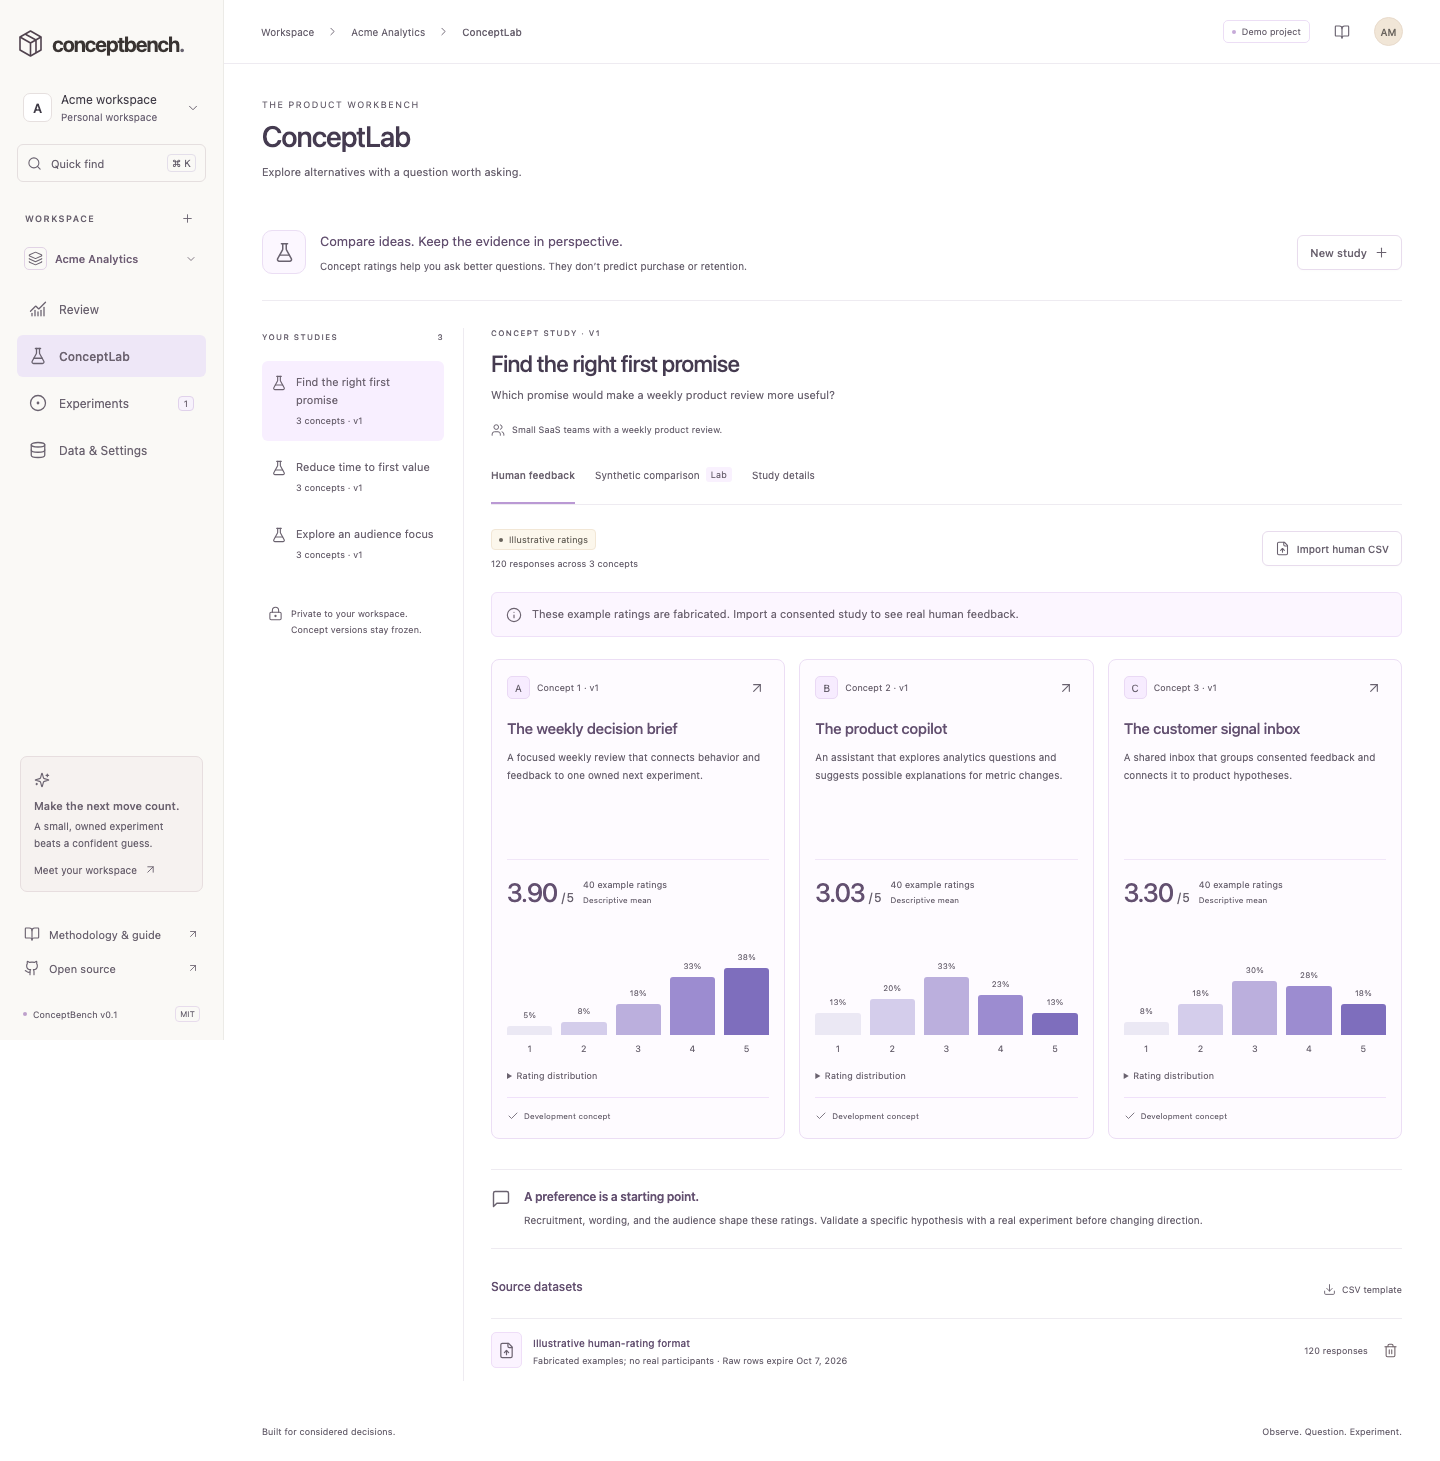
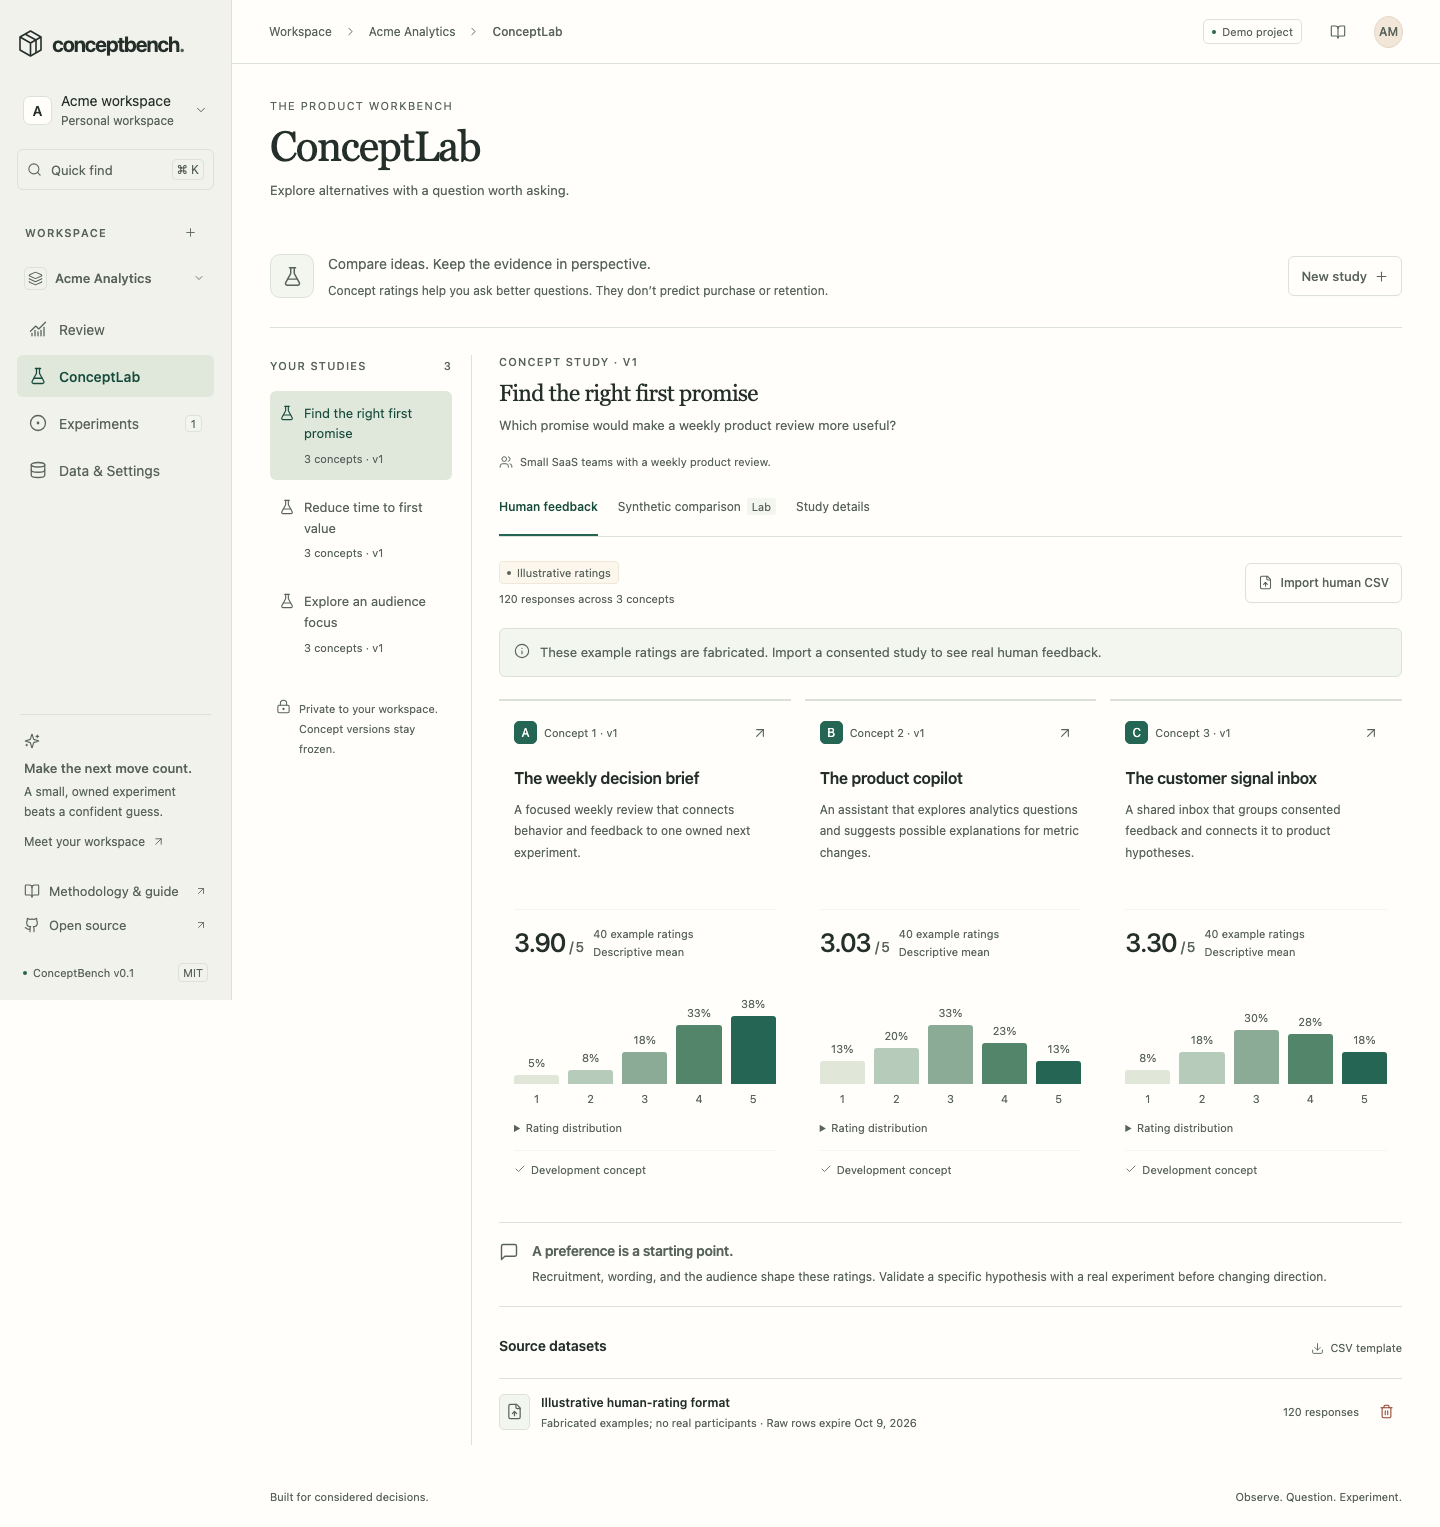
design: polish responsive comparisons, loading, and search feedback

diff --git a/frontend/src/App.tsx b/frontend/src/App.tsx
@@ -59,6 +59,9 @@ export default function App() {
     [formError, setFormError] = useState(''),
     [search, setSearch] = useState(''),
     [mobileNav, setMobileNav] = useState(false)
+  const query = search.trim().toLowerCase()
+  const matchingPages = nav.filter((n) => n.label.toLowerCase().includes(query))
+  const matchingProjects = projects.filter((p) => p.name.toLowerCase().includes(query))
   const notify = (s: string) => setToast(s)
   const loadProject = useCallback(async (id: string) => {
     const result = await api<Overview>(`/projects/${id}/overview`)
@@ -838,38 +841,39 @@ export default function App() {
             <kbd>ESC</kbd>
           </div>
           <div className="command-results">
-            {nav
-              .filter((n) => n.label.toLowerCase().includes(search.toLowerCase()))
-              .map(({ id, label, icon: Icon }) => (
-                <button
-                  key={id}
-                  onClick={() => {
-                    navigate(id)
-                    setModal('')
-                    setSearch('')
-                  }}
-                >
-                  <Icon size={18} />
-                  {label}
-                  <ArrowRight size={14} />
-                </button>
-              ))}
-            {projects
-              .filter((p) => p.name.toLowerCase().includes(search.toLowerCase()))
-              .map((p) => (
-                <button
-                  key={p.id}
-                  onClick={() => {
-                    void loadProject(p.id).catch((e) => notify(e.message))
-                    setModal('')
-                    setSearch('')
-                  }}
-                >
-                  <Layers size={18} />
-                  {p.name}
-                  <span>Project</span>
-                </button>
-              ))}
+            {matchingPages.length === 0 && matchingProjects.length === 0 && (
+              <p className="search-empty" role="status">
+                No pages or projects match “{search}”. Try a shorter name.
+              </p>
+            )}
+            {matchingPages.map(({ id, label, icon: Icon }) => (
+              <button
+                key={id}
+                onClick={() => {
+                  navigate(id)
+                  setModal('')
+                  setSearch('')
+                }}
+              >
+                <Icon size={18} />
+                {label}
+                <ArrowRight size={14} />
+              </button>
+            ))}
+            {matchingProjects.map((p) => (
+              <button
+                key={p.id}
+                onClick={() => {
+                  void loadProject(p.id).catch((e) => notify(e.message))
+                  setModal('')
+                  setSearch('')
+                }}
+              >
+                <Layers size={18} />
+                {p.name}
+                <span>Project</span>
+              </button>
+            ))}
           </div>
         </Dialog>
       )}

diff --git a/frontend/e2e/journeys.spec.ts b/frontend/e2e/journeys.spec.ts
@@ -187,6 +187,11 @@ test('desktop accessibility, keyboard drawer, mobile navigation, and no viewport
   await page.getByRole('button', { name: 'Review', exact: true }).click()
   await page.keyboard.press('ControlOrMeta+k')
   await expect(page.getByRole('dialog')).toBeVisible()
+  const search = page.getByRole('textbox', { name: 'Find a page or project' })
+  await search.fill('no-such-project')
+  await expect(page.getByRole('status')).toContainText('No pages or projects match')
+  await search.fill('  cOnCePt  ')
+  await expect(page.getByRole('dialog').getByRole('button', { name: 'ConceptLab' })).toBeVisible()
   await page.keyboard.press('Escape')
   await page.setViewportSize({ width: 390, height: 844 })
   await expect(page.getByRole('button', { name: 'Open navigation' })).toBeVisible()
@@ -267,4 +272,23 @@ test('account creation, project context, and a frozen definition work from the U
   await page.getByRole('button', { name: 'Save access', exact: true }).click()
   await expect(page.getByRole('alert')).toContainText('Keep at least one workspace owner.')
   await expect(page.getByText('Your role: owner', { exact: true })).toBeVisible()
+})
+
+test('slow session startup announces loading and resolves into the workspace', async ({ page }) => {
+  let release!: () => void
+  const ready = new Promise<void>((resolve) => {
+    release = resolve
+  })
+  await page.route('**/api/v1/session', async (route) => {
+    await ready
+    await route.continue()
+  })
+  await page.goto('/')
+  try {
+    await expect(page.getByRole('status', { name: 'Preparing your workspace' })).toBeVisible()
+  } finally {
+    release()
+  }
+  await expect(page.getByRole('heading', { name: 'Product review' })).toBeVisible()
+  await expect(page.getByRole('status', { name: 'Preparing your workspace' })).toHaveCount(0)
 })

diff --git a/frontend/src/styles.css b/frontend/src/styles.css
@@ -1470,7 +1470,7 @@ main {
   display: flex;
   gap: 10px;
   align-items: center;
-  margin: 14px 0 23px;
+  margin: auto 0 23px;
   border-top: 1px solid var(--subtle);
   padding-top: 17px;
 }
@@ -1528,7 +1528,7 @@ main {
 }
 .concept-bottom {
   border-top: 1px solid var(--subtle);
-  margin-top: auto;
+  margin-top: 0;
   padding-top: 12px;
   display: flex;
   align-items: center;
@@ -2492,6 +2492,33 @@ dialog .table-scroll td small {
   background: #faf9f7;
   color: var(--muted);
   font-size: 14px;
+}
+.loading-preview {
+  width: min(320px, calc(100vw - 48px));
+  display: grid;
+  gap: 12px;
+  margin: 20px 0 6px;
+}
+.loading-preview span {
+  height: 12px;
+  background: var(--line);
+  border-radius: 3px;
+  animation: breathe 1.5s ease-in-out infinite alternate;
+}
+.loading-preview span:first-child {
+  height: 64px;
+  border-top: 3px solid var(--accent);
+}
+.loading-preview span:last-child {
+  width: 65%;
+}
+@keyframes breathe {
+  to {
+    opacity: 0.45;
+  }
+}
+.search-empty {
+  padding: 12px 9px;
 }
 .toast {
   position: fixed;
@@ -3910,6 +3937,9 @@ strong {
   }
   .filters {
     position: static;
+  }
+  .retention-chart text {
+    font-size: 18px;
   }
   .lab-intro {
     flex-wrap: wrap;

diff --git a/frontend/src/ui.tsx b/frontend/src/ui.tsx
@@ -89,8 +89,15 @@ export function Empty({
 }
 export function Loading() {
   return (
-    <div className="loading">
-      <LoaderCircle className="spin" size={26} />
+    <div className="loading" role="status" aria-label="Preparing your workspace">
+      <span className="brand" aria-hidden="true">
+        conceptbench.
+      </span>
+      <div className="loading-preview" aria-hidden="true">
+        <span />
+        <span />
+        <span />
+      </div>
       <span>Preparing your workspace…</span>
     </div>
   )

diff --git a/frontend/src/Review.tsx b/frontend/src/Review.tsx
@@ -118,7 +118,7 @@ function SlopeChart({
             stroke="var(--line)"
             strokeDasharray={i ? '3 4' : ''}
           />
-          <text x="32" y={y((i * max) / 3) + 4} textAnchor="end" fill="var(--muted)" fontSize="11">
+          <text x="36" y={y((i * max) / 3) + 4} textAnchor="end" fill="var(--muted)" fontSize="11">
             {number((i * max) / 3, 0)}%
           </text>
         </g>

diff --git a/docs/BUILD.md b/docs/BUILD.md
@@ -15,6 +15,10 @@ ConceptBench implements the self-hosted software pilot from the supplied technic
 
 Experiment specifications freeze when a test starts. An outcome can be recorded only once. Later reviews explicitly select that outcome as evidence. Changes to a running test require a new experiment, keeping the original stopping rule and hypothesis inspectable.
 
+## Interface verification — 9 September 2026
+
+The redesigned interface passes all eight Chromium journeys against the compiled Docker application, including automated accessibility checks on all four main pages. Loading announcements and Quick Find's empty and case-insensitive results are covered. All four pages were checked at 320, 390, 768, 1024, 1440 and 1920 pixels without viewport overflow; concept chart baselines were checked at tablet width. Production compilation and formatting pass. README screenshots were refreshed from isolated fabricated demo sessions. This interface update adds no dependencies and does not change the analytical rules or pilot validation limits.
+
 ## Verification record — 7 September 2026
 
 The implementation passed 30 backend checks on both SQLite and PostgreSQL, and seven real Chromium journeys against the built Docker application. Those journeys cover demo/source/revision/export, human CSV, experiment lifecycle, aggregate CSV and immature-window displays, all four surfaces' automated WCAG A/AA checks, keyboard/mobile behavior, combined reviews, account/project/definition setup and last-owner protection. Automated accessibility checks do not replace user testing with assistive technology.
